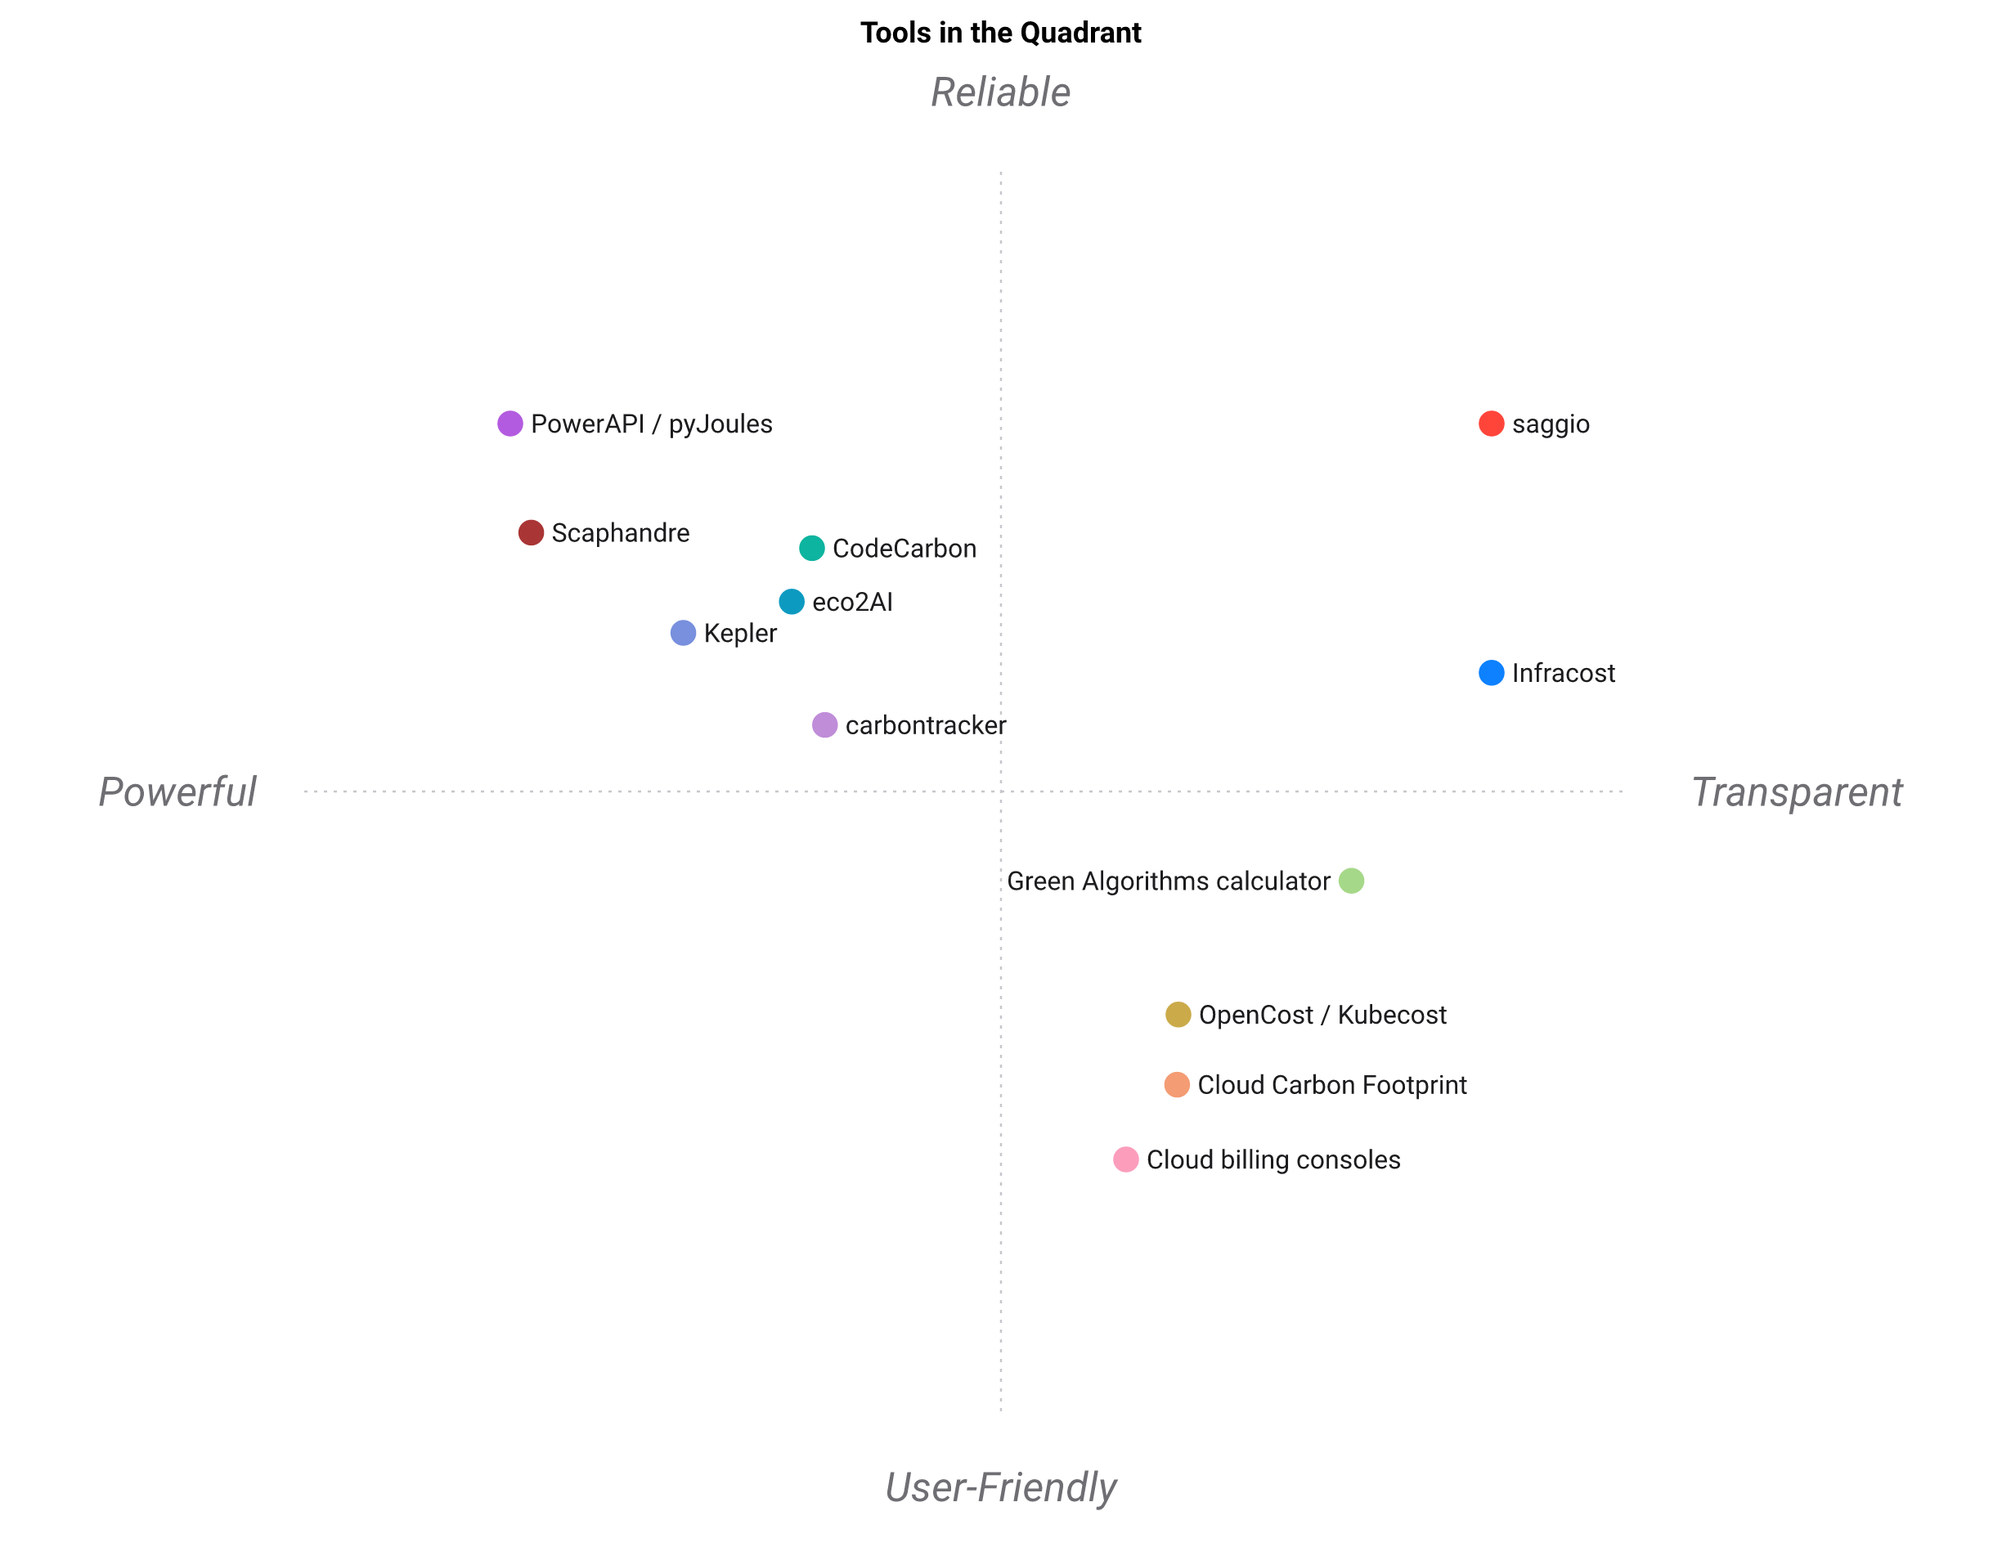
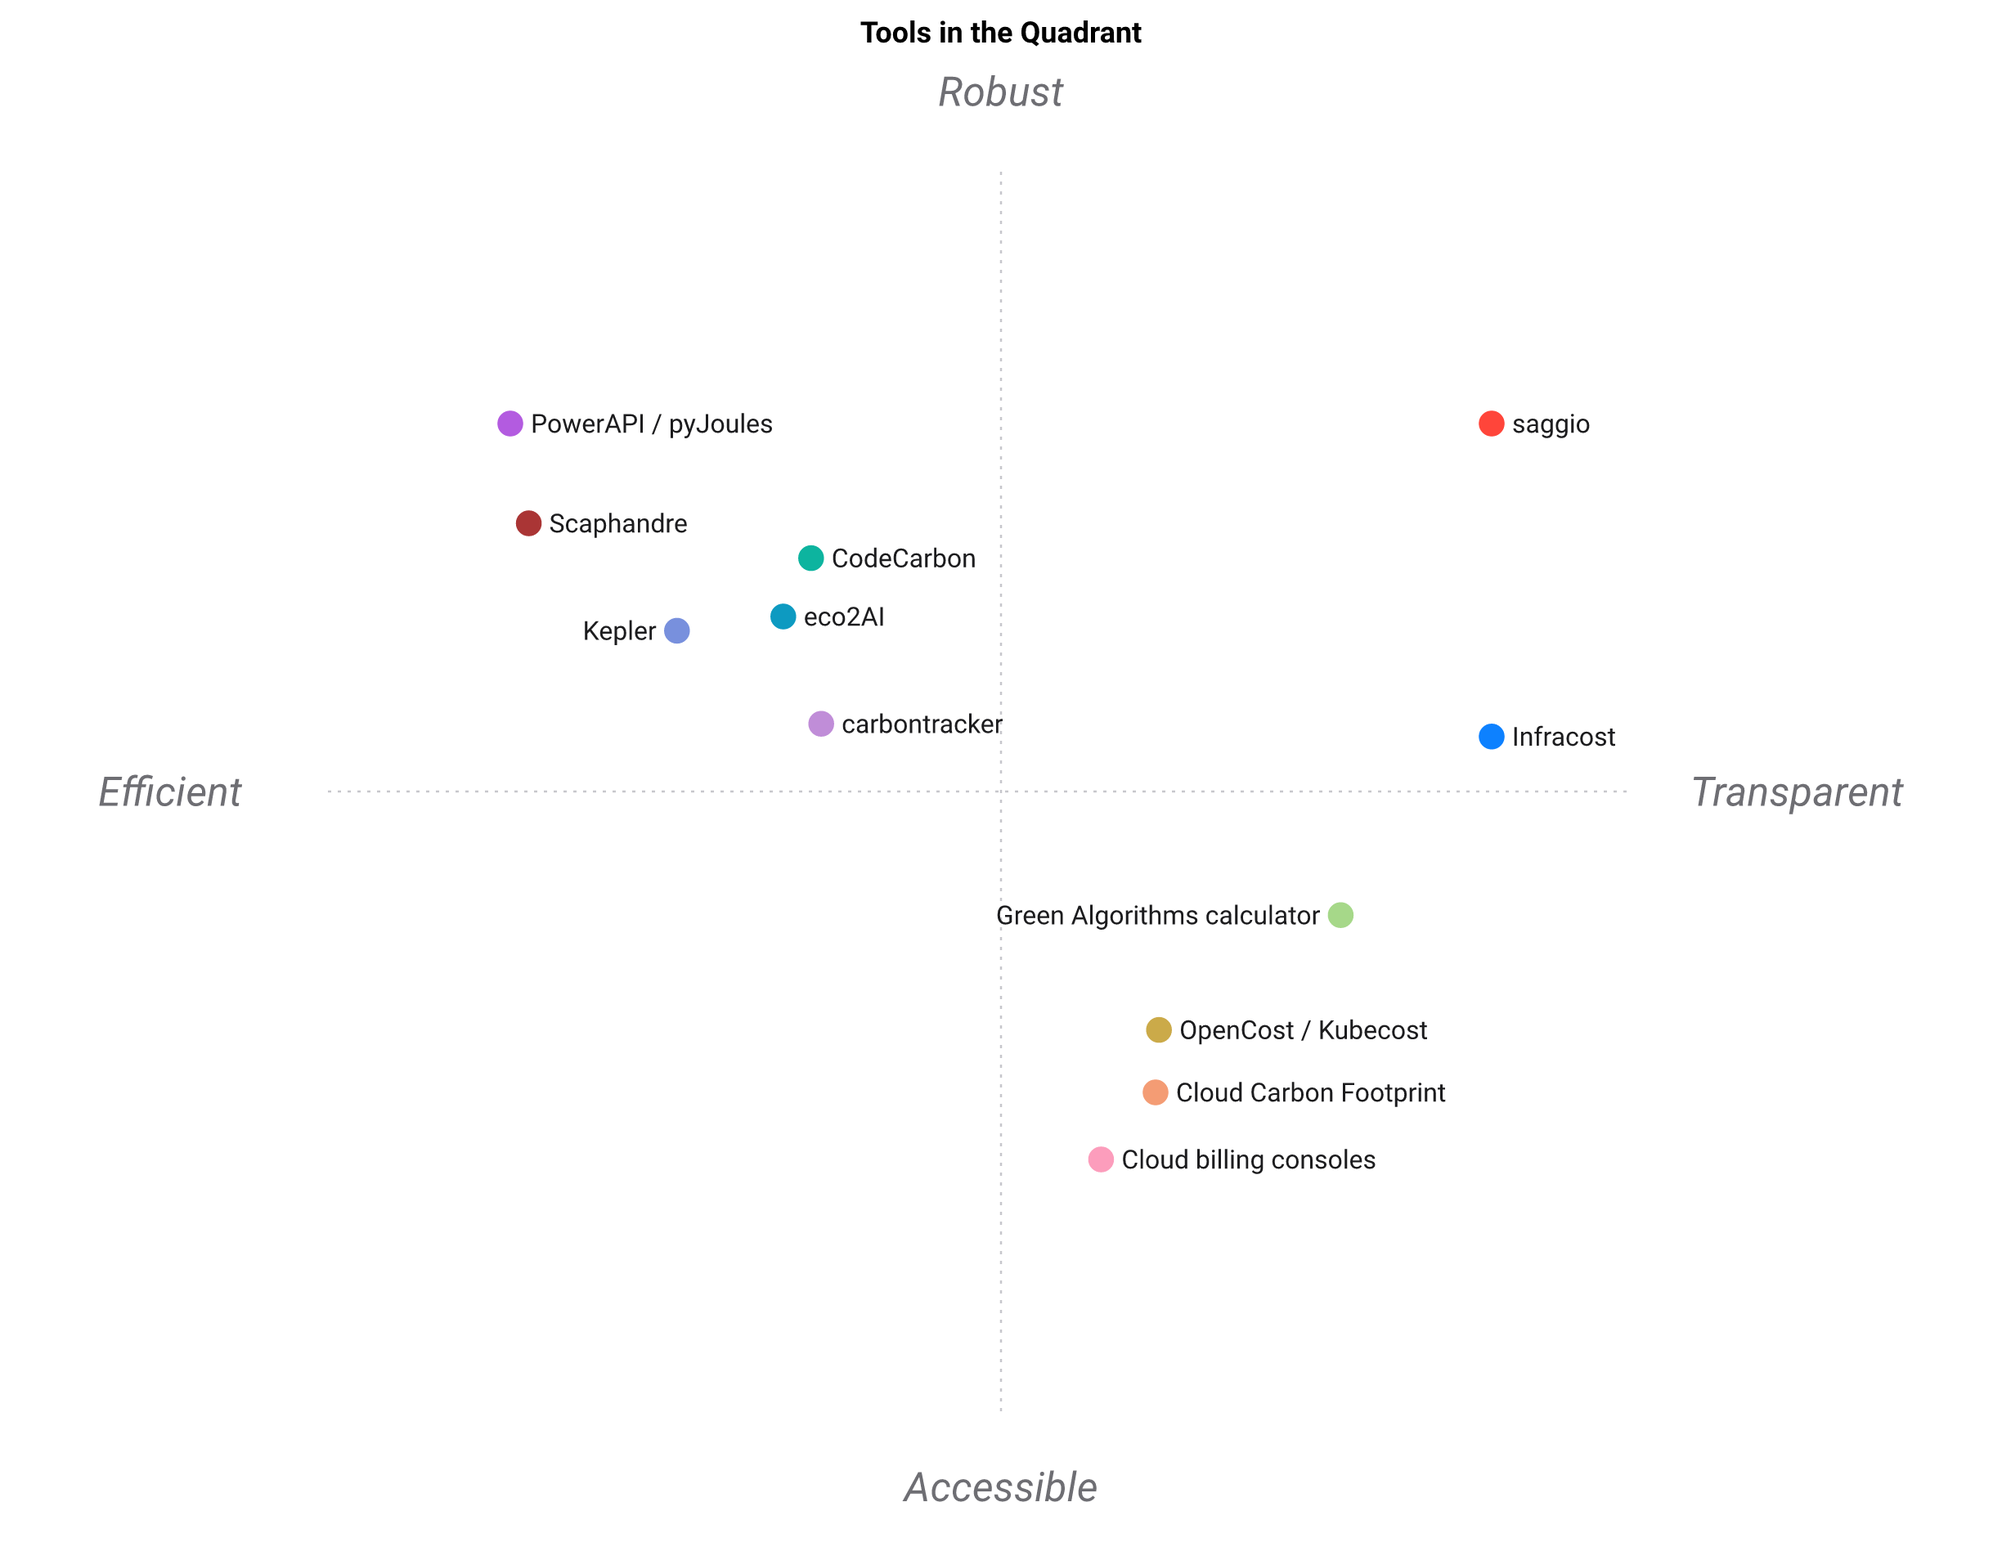
Read the landscape again, against what has actually shipped
The "where this one is weakest" section had gone out of date in the direction
that flatters, which is the worse direction for a page whose whole premise is
honesty. It still said there was nothing on macOS or Windows and no GPU power
measurement; both were true when written and neither is now.

What replaced them are the gaps that remain. Nothing here is attributed to a
process: every counter measures the machine, and a baseline taken before the
slice is the only thing separating the run from the browser beside it. Windows
still publishes no vendor-neutral counter to an unprivileged process. And a
counter is not the wall -- fans, storage, network and the power supply sit
outside RAPL and NVML by construction, and the gap is not a constant anyone
could add back: against physical meters it is a slope of about 1.17 that varies
from node to node.

One rating moves, and only because something checkable shipped: Measures power
goes from three stars to four. Not five. The fifth star is per-process
attribution, and Scaphandre, PowerAPI and Kepler have it.

Two neighbours are re-read too. Kepler moved off eBPF to /proc and /sys in 2026,
dropping the CAP_BPF and CAP_SYSADMIN it used to need -- the same least-privilege
direction this package takes when it prints the remedy for a root-only counter
instead of acquiring the rights to read it. CodeCarbon's entry gains the measured
price of its sampling: 5.4% to 46.8% of time overhead at 1 kHz in a 2026 study of
[…]

diff --git a/LANDSCAPE.md b/LANDSCAPE.md
@@ -9,14 +9,14 @@ several dimensions, where every number states how far it can be trusted**. A too
 built for a different job is not penalised for being good at that job instead; the
 score says fit to this niche, nothing more.
 
-Figures were checked on 2026-09-13. Projects move; if something here is out of
+Figures were checked on 2026-10-01. Projects move; if something here is out of
 date, [say so](CONTRIBUTING.md).
 
 ## At a glance
 
 | | Per-unit model | Provenance on every number | Multi-dimension | Committed artefact | Measures power | Estimates without running | Drift gate | Reports for people | Offline |
 | --- | :---: | :---: | :---: | :---: | :---: | :---: | :---: | :---: | :---: |
-| **saggio** | ⭐⭐⭐⭐⭐ | ⭐⭐⭐⭐⭐ | ⭐⭐⭐⭐⭐ | ⭐⭐⭐⭐⭐ | ⭐⭐⭐ | ⭐⭐⭐⭐ | ⭐⭐⭐⭐⭐ | ⭐⭐⭐⭐⭐ | ⭐⭐⭐⭐⭐ |
+| **saggio** | ⭐⭐⭐⭐⭐ | ⭐⭐⭐⭐⭐ | ⭐⭐⭐⭐⭐ | ⭐⭐⭐⭐⭐ | ⭐⭐⭐⭐ | ⭐⭐⭐⭐ | ⭐⭐⭐⭐⭐ | ⭐⭐⭐⭐⭐ | ⭐⭐⭐⭐⭐ |
 | CodeCarbon | ⭐⭐ | ⭐⭐ | ⭐⭐ | ⭐⭐ | ⭐⭐⭐⭐ | ⭐ | ⭐ | ⭐⭐⭐ | ⭐⭐⭐ |
 | Green Algorithms calculator | ⭐⭐⭐ | ⭐⭐⭐⭐ | ⭐⭐⭐ | ⭐ | ⭐ | ⭐⭐⭐⭐⭐ | ⭐ | ⭐⭐⭐ | ⭐ |
 | Scaphandre | ⭐ | ⭐⭐ | ⭐ | ⭐ | ⭐⭐⭐⭐⭐ | ⭐ | ⭐ | ⭐⭐ | ⭐⭐⭐⭐⭐ |
@@ -34,11 +34,13 @@ date, [say so](CONTRIBUTING.md).
 The same table, drawn. [standpoint](https://github.com/warith-harchaoui/standpoint)
 runs a principal component analysis over the nine ratings and lays every tool out
 along the two directions they actually differ on, orienting the map so saggio sits
-top-right. The axis names are the machine's own reading of the loadings; what the
-loadings say is plainer: the further **right**, the more a tool produces sourced,
-committed, per-unit answers; the further **left**, the more it measures live power.
-The further **up**, the more it models a unit of work; the further **down**, the
-more it is something you point at a bill or a form.
+top-right. Two axes keep about 80% of what
+separates these tools: 55% horizontally, 25% vertically. The axis names are the
+machine's own reading of the loadings; what the loadings say is plainer: the
+further **right**, the more a tool produces sourced, committed, per-unit answers;
+the further **left**, the more it measures live power. The further **up**, the
+more it runs on your own machine and reads it; the further **down**, the more it
+is something you point at a bill or a form.
 
 <p align="center">
   <img src="assets/landscape.png" alt="Positioning map of the twelve tools along two principal components, saggio in the top-right corner" width="720">
@@ -46,7 +48,8 @@ more it is something you point at a bill or a form.
 
 The distances are the table's, not an opinion: two tools sit together because
 their rating rows are close. Regenerate after editing the table with
-`standpoint <table> -r saggio` and commit the refreshed `assets/landscape.png`.
+`standpoint <table> -r saggio --model qwen3:8b` and commit the refreshed
+`assets/landscape.png` and `assets/landscape.svg`.
 
 ## The projects
 
@@ -59,7 +62,10 @@ intensity, and writes a CSV.
 
 Where it differs: CodeCarbon measures an *episode*. It answers "what did this run
 emit", not "what does one request cost", and its output is a log rather than a
-reviewed artefact. It emits a number whether or not the inputs justify one, which
+reviewed artefact. Its sampling is coarse by design, and that has a measured
+price: a 2026 study of RAPL-based tools polling at 1 kHz put CodeCarbon's own time
+overhead between 5.4% and 46.8%, which is the argument for its default interval
+rather than against the tool. It emits a number whether or not the inputs justify one, which
 is the right call for telemetry and the wrong one for a figure somebody will quote
 in a report. **Use CodeCarbon when you want passive measurement of training runs.
 Use this when you want a per-unit figure you are prepared to defend.**
@@ -90,8 +96,12 @@ model like this one when you need it to mean something to a reader.**
 
 ### [Kepler](https://sustainable-computing.io/)
 
-Power and carbon attribution for Kubernetes workloads, using eBPF and hardware
-counters, exported to Prometheus. Strong at what it does.
+Power and carbon attribution for Kubernetes workloads, from hardware counters,
+exported to Prometheus. Strong at what it does. In 2026 it rewrote its collection
+to read `/proc` and `/sys` instead of eBPF, dropping the `CAP_BPF` and
+`CAP_SYSADMIN` it used to need — the same least-privilege direction this package
+takes when it prints the remedy for a root-only counter rather than acquiring the
+rights to read it.
 
 Where it differs: it is cluster infrastructure. It answers "which pods are drawing
 power right now", not "what does one unit of work cost", and it needs a cluster to
@@ -147,13 +157,21 @@ were charged, which is exactly one dimension of one question, after the fact.
 
 Being honest about the gaps, since that is the whole premise of the tool.
 
-- **Power measurement is thin.** The package energy counter on Linux, and nothing
-  on macOS or Windows, where no unprivileged counter exists. Scaphandre, PowerAPI,
-  and Kepler measure far better. This package's strength is what it does with a
-  measurement, not how it takes one.
-- **No GPU power measurement.** The processor package counter does not include a
-  discrete accelerator, so a GPU workload measured here is undercounted, and the
-  report says so. Reading `nvidia-smi` power is a clear next step.
+- **Nothing is attributed to a process.** Every counter here measures the
+  *machine*, and a baseline taken before the slice is the only thing separating
+  the run from the browser beside it. Scaphandre, PowerAPI and Kepler model
+  per-process and per-container draw; this package does not, and says so in the
+  scope every reading carries. That is the gap that matters most on a shared box.
+- **Windows measures nothing.** It publishes no vendor-neutral processor counter
+  to an unprivileged process, so a Windows run falls back to a datasheet and the
+  model says `estimated`. Linux and macOS both read real counters now — powercap
+  zones by name, `IOReport` on Apple Silicon, NVML and the `amdgpu` / `i915` /
+  `xe` sysfs interfaces for the accelerator — which is a change from earlier
+  versions of this page.
+- **A counter is not the wall.** Fans, storage, network and the power supply sit
+  outside RAPL and NVML by construction, and the gap is not a constant that could
+  be added back: measured against physical meters it is a slope of about 1.17,
+  varying per node. Every figure here is the scope it names, never the machine.
 - **No continuous monitoring.** One bounded slice, once. If you want a time series,
   this is the wrong shape of tool.
 - **No embodied carbon.** Manufacturing the hardware is real, large, and excluded,
@@ -174,3 +192,9 @@ budget, and will be asked six months later where it came from. That is the case
 these tools mostly do not serve: they produce numbers, and this one produces
 numbers that come with their own audit trail and refuse to exist when they would
 have to be invented.
+
+It is also the only tool in this table that will *measure how the cost grows with
+the size of the job*: three slices of different sizes, a fitted exponent, a
+goodness of fit, and a refusal to project at all when the fit says the slices are
+not measuring one consistent behaviour. Every other tool here projects by the
+ratio of sizes, or does not project.

diff --git a/ANALYSE.md b/ANALYSE.md
@@ -18,10 +18,13 @@ place dans `saggio`. C'est une référence, pas une liste de fonctionnalités. L
 où une technique est refusée, le refus est argumenté plutôt qu'asséné.
 
 ```mermaid
+%% Les couleurs sont celles d'Okabe et Ito, sûres pour les déficiences de la
+%% vision des couleurs — la même palette que les rapports et le site. Chacune
+%% accompagne une étiquette écrite : la couleur porte l'emphase, jamais le sens.
 flowchart TB
     subgraph S["Statique — le code est lu"]
         S1["Compter<br/>langages, tailles, imports, appels"]
-        S2["Bornes<br/>COSTA · CoFloCo · KoAT · RAML"]
+        S2["Bornes<br/>COSTA · CoFloCo · KoAT · RaML"]
         S3["Modèles d'énergie<br/>WCEC sur un jeu d'instructions"]
         S4["Métriques<br/>cyclomatique · Halstead · cognitive"]
         S5["Catalogues de règles<br/>creedengo · EcoSonar"]
@@ -29,13 +32,24 @@ flowchart TB
     subgraph D["Dynamique — le code est exécuté"]
         D1["Compteurs<br/>RAPL · NVML · IOReport"]
         D2["Profils<br/>cProfile · Scalene · callgrind"]
-        D3["Complexité empirique<br/>trend-prof · aprof"]
-        D4["Pire cas par recherche<br/>SlowFuzz · Singularity"]
+        D3["Complexité empirique<br/>trend-prof · aprof · un exposant ajusté"]
+        D4["Pire cas par recherche<br/>SlowFuzz · PerfFuzz · Singularity"]
     end
     S -->|"formes, tailles, preuves"| M["Un nombre qui dit<br/>jusqu'où lui faire confiance"]
     D -->|"durées, joules, exposants"| M
     S4 -.->|"R² ≈ 0,005 seul"| X["Refusé comme prédicteur"]
-    style X stroke-dasharray: 4 4
+
+    classDef read fill:#E7F1F8,stroke:#0072B2,stroke-width:1.5px,color:#0B2A3A
+    classDef run fill:#E3F3EF,stroke:#006E5C,stroke-width:1.5px,color:#06281F
+    classDef kept fill:#0072B2,stroke:#003C5D,stroke-width:1.5px,color:#FFFFFF
+    classDef refused fill:#FBEBE4,stroke:#B43C0F,stroke-width:1.5px,color:#5A1E07
+    class S1,S2,S3,S4,S5 read
+    class D1,D2,D3,D4 run
+    class M kept
+    class X refused
+    style S fill:#F6FAFD,stroke:#A9CFE4,color:#0B2A3A
+    style D fill:#F3FAF8,stroke:#9ED3C6,color:#06281F
+    style X stroke-dasharray: 5 4
 ```
 
 ## 1. Ce qu'on peut, et ne peut pas, demander à l'analyse statique

diff --git a/ANALYSIS.md b/ANALYSIS.md
@@ -18,10 +18,13 @@ for **consumption**, with the numbers and the papers, and what of it belongs in
 the refusal is argued rather than asserted.
 
 ```mermaid
+%% Colours are Okabe & Ito's colour-vision-deficiency-safe set, the same palette
+%% the reports and the website use. Each one is paired with a written label, so
+%% the colour carries emphasis and never the meaning on its own.
 flowchart TB
     subgraph S["Static — the code is read"]
         S1["Counting<br/>languages, sizes, imports, call sites"]
-        S2["Bounds<br/>COSTA · CoFloCo · KoAT · RAML"]
+        S2["Bounds<br/>COSTA · CoFloCo · KoAT · RaML"]
         S3["Energy models<br/>WCEC on an ISA"]
         S4["Metrics<br/>cyclomatic · Halstead · cognitive"]
         S5["Rule catalogues<br/>creedengo · EcoSonar"]
@@ -29,13 +32,24 @@ flowchart TB
     subgraph D["Dynamic — the code is run"]
         D1["Counters<br/>RAPL · NVML · IOReport"]
         D2["Profiles<br/>cProfile · Scalene · callgrind"]
-        D3["Empirical complexity<br/>trend-prof · aprof"]
-        D4["Worst case by search<br/>SlowFuzz · Singularity"]
+        D3["Empirical complexity<br/>trend-prof · aprof · a fitted exponent"]
+        D4["Worst case by search<br/>SlowFuzz · PerfFuzz · Singularity"]
     end
     S -->|"shapes, sizes, evidence"| M["A number that says<br/>how far it can be trusted"]
     D -->|"durations, joules, exponents"| M
     S4 -.->|"R² ≈ 0.005 alone"| X["Refused as a predictor"]
-    style X stroke-dasharray: 4 4
+
+    classDef read fill:#E7F1F8,stroke:#0072B2,stroke-width:1.5px,color:#0B2A3A
+    classDef run fill:#E3F3EF,stroke:#006E5C,stroke-width:1.5px,color:#06281F
+    classDef kept fill:#0072B2,stroke:#003C5D,stroke-width:1.5px,color:#FFFFFF
+    classDef refused fill:#FBEBE4,stroke:#B43C0F,stroke-width:1.5px,color:#5A1E07
+    class S1,S2,S3,S4,S5 read
+    class D1,D2,D3,D4 run
+    class M kept
+    class X refused
+    style S fill:#F6FAFD,stroke:#A9CFE4,color:#0B2A3A
+    style D fill:#F3FAF8,stroke:#9ED3C6,color:#06281F
+    style X stroke-dasharray: 5 4
 ```
 
 ## 1. What static analysis can and cannot be asked

diff --git a/CHANGELOG.md b/CHANGELOG.md
@@ -7,6 +7,37 @@ release of that line.
 
 ## Unreleased
 
+### The landscape, read again against what shipped
+
+- `LANDSCAPE.md` and `PAYSAGE.md`: the self-criticism had gone out of date in the
+  direction that flatters, which is the worse direction for a page whose premise
+  is honesty. "Nothing on macOS or Windows" and "no GPU power measurement" were
+  both true when written and are not now, so they are replaced by the gaps that
+  remain: nothing is attributed to a *process*, Windows still publishes no
+  unprivileged counter, and a counter is not the wall — the gap to a physical
+  meter is a slope of about 1.17 that varies per node, not a constant anyone
+  could add back.
+- One rating moves, and only because something checkable shipped: **Measures
+  power** goes from three stars to four. Not five, because the fifth is
+  per-process attribution and Scaphandre, PowerAPI and Kepler have it.
+- Kepler's entry notes its 2026 move off eBPF to `/proc` and `/sys`, dropping
+  `CAP_BPF` and `CAP_SYSADMIN`. CodeCarbon's notes the measured price of its
+  sampling: 5.4% to 46.8% time overhead at 1 kHz in a 2026 study of RAPL-based
+  tools, which argues for its default interval rather than against the tool.
+- The positioning map is regenerated from the refreshed table. The axes come out
+  as *Efficient ↔ Transparent* (55%) and *Accessible ↔ Robust* (25%), 80%
+  together, and the placement tells the same story as before — which is the
+  point of regenerating rather than redrawing.
+
+### The diagrams carry colour
+
+- The Mermaid diagram in `ANALYSIS.md` and `ANALYSE.md` is coloured with Okabe
+  and Ito's colour-vision-deficiency-safe set, the palette the reports and the
+  website already use: blue for what is read, green for what is run, the kept
+  answer filled, the refusal dashed in vermillion. Every colour sits beside a
+  written label, so it carries emphasis and never the meaning on its own.
+
+
 ### The whole-run projection stops assuming the work is uniform
 
 - `saggio audit --scaling-steps N` runs the slice at N sizes a factor of four
